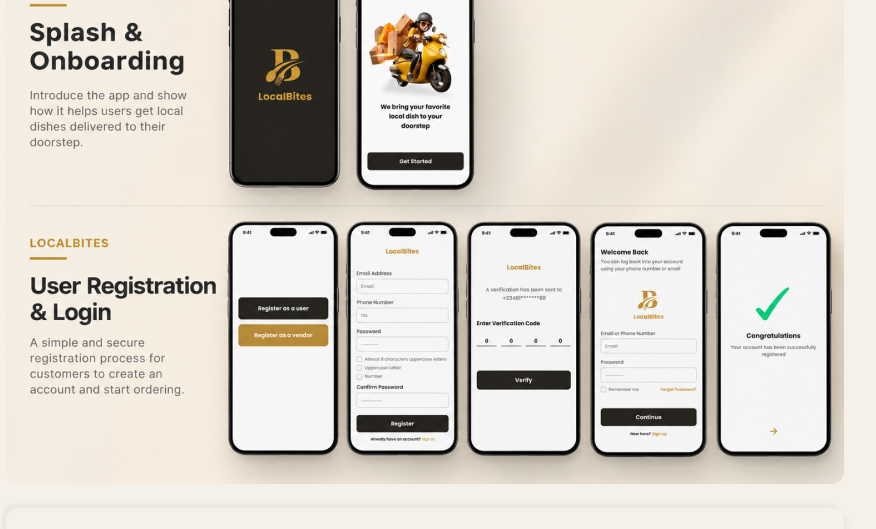
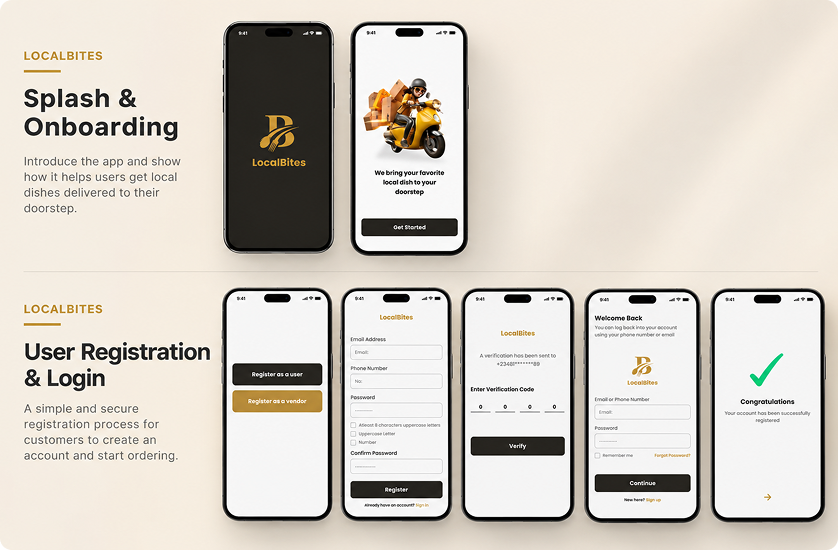
LocalBite: swap in clean full-bleed design frames
Replace the cropped LocalBite design screens with the clean exported
frames (Customer Onboarding, Vendor Onboarding, Customer Discovery,
Customer Checkout, Vendor Management) and update their dimensions, so
each covers its whole area like the Bookmaker frames.

diff --git a/src/lib/case-studies.ts b/src/lib/case-studies.ts
@@ -190,24 +190,24 @@ export const caseStudies: Record<string, CaseStudy> = {
         n: "01",
         title: "Customer Onboarding",
         image: img("localbite", "design-01.png"),
-        w: 876,
-        h: 625,
+        w: 838,
+        h: 550,
         desc: "The onboarding experience introduces users to LocalBites and its goal of making local food easier to discover and order. The splash screen establishes the brand identity, while the welcome screen communicates the app's core value. Users can then choose whether to register as a customer or a vendor, and a simple, secure registration flow lets customers create an account and start ordering.",
       },
       {
         n: "02",
         title: "Vendor Onboarding",
         image: img("localbite", "design-02.png"),
-        w: 876,
-        h: 570,
+        w: 838,
+        h: 521,
         desc: "A dedicated registration and authentication flow for food vendors. The process guides vendors through setting up their business profiles, providing contact information, adding their business address, and creating secure login credentials — divided into manageable steps to make business setup easier to follow.",
       },
       {
         n: "03",
         title: "Customer Discovery",
         image: img("localbite", "design-03.png"),
-        w: 876,
-        h: 565,
+        w: 838,
+        h: 521,
         bullets: [
           { label: "Home Screen – Discover", text: "Introduces customers to popular dishes, food categories, and nearby restaurants as a starting point for exploring local food." },
           { label: "Dish Discovery – Explore", text: "Customers browse food categories and view dishes with prices, ratings, and vendor information before adding items to the cart." },
@@ -218,8 +218,8 @@ export const caseStudies: Record<string, CaseStudy> = {
         n: "04",
         title: "Customer Checkout",
         image: img("localbite", "design-04.png"),
-        w: 876,
-        h: 378,
+        w: 838,
+        h: 521,
         bullets: [
           { label: "Cart Screen", text: "Users review their selected dishes and quantities and see the order total before checkout." },
           { label: "Checkout Screen", text: "Users review the total and delivery fee, and enter their delivery details." },
@@ -230,8 +230,8 @@ export const caseStudies: Record<string, CaseStudy> = {
         n: "05",
         title: "Vendor Management",
         image: img("localbite", "design-05.png"),
-        w: 876,
-        h: 398,
+        w: 838,
+        h: 521,
         bullets: [
           { label: "Vendor Dashboard", text: "A quick snapshot of the business — order totals, pending and completed orders, recent activity, and the current subscription plan." },
           { label: "Order Management", text: "Vendors filter orders by status, review summaries, and mark orders as completed once fulfilled." },
